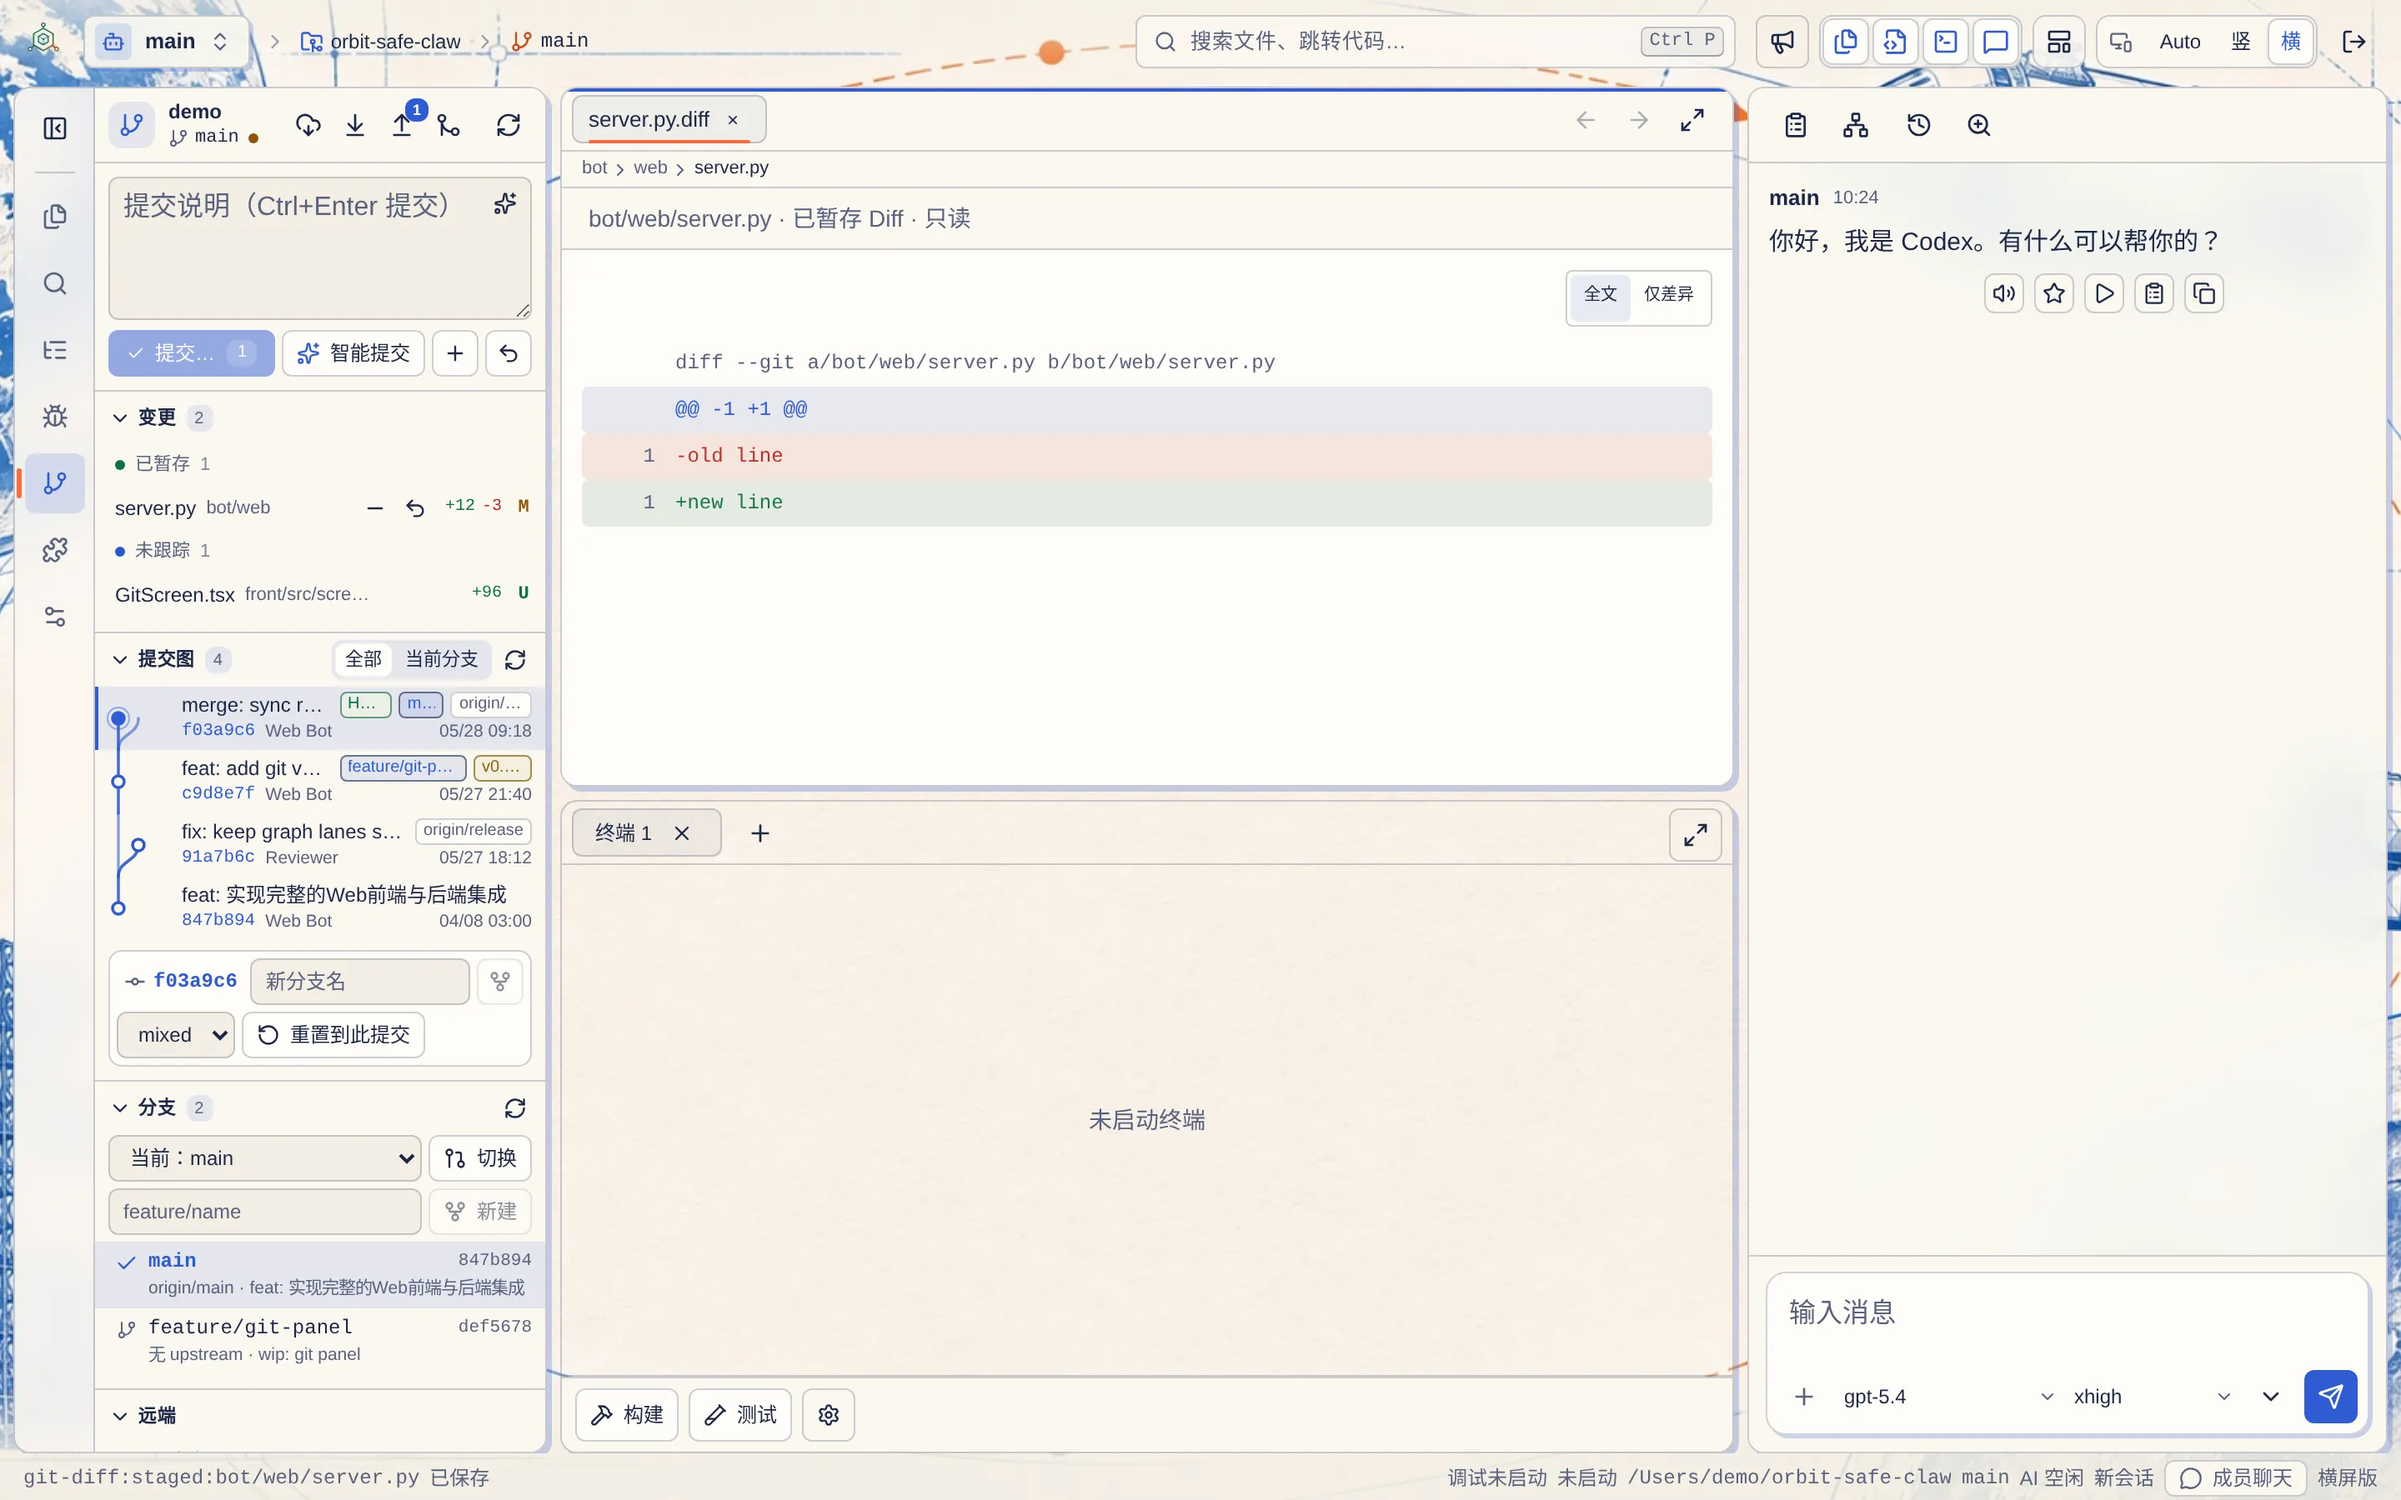
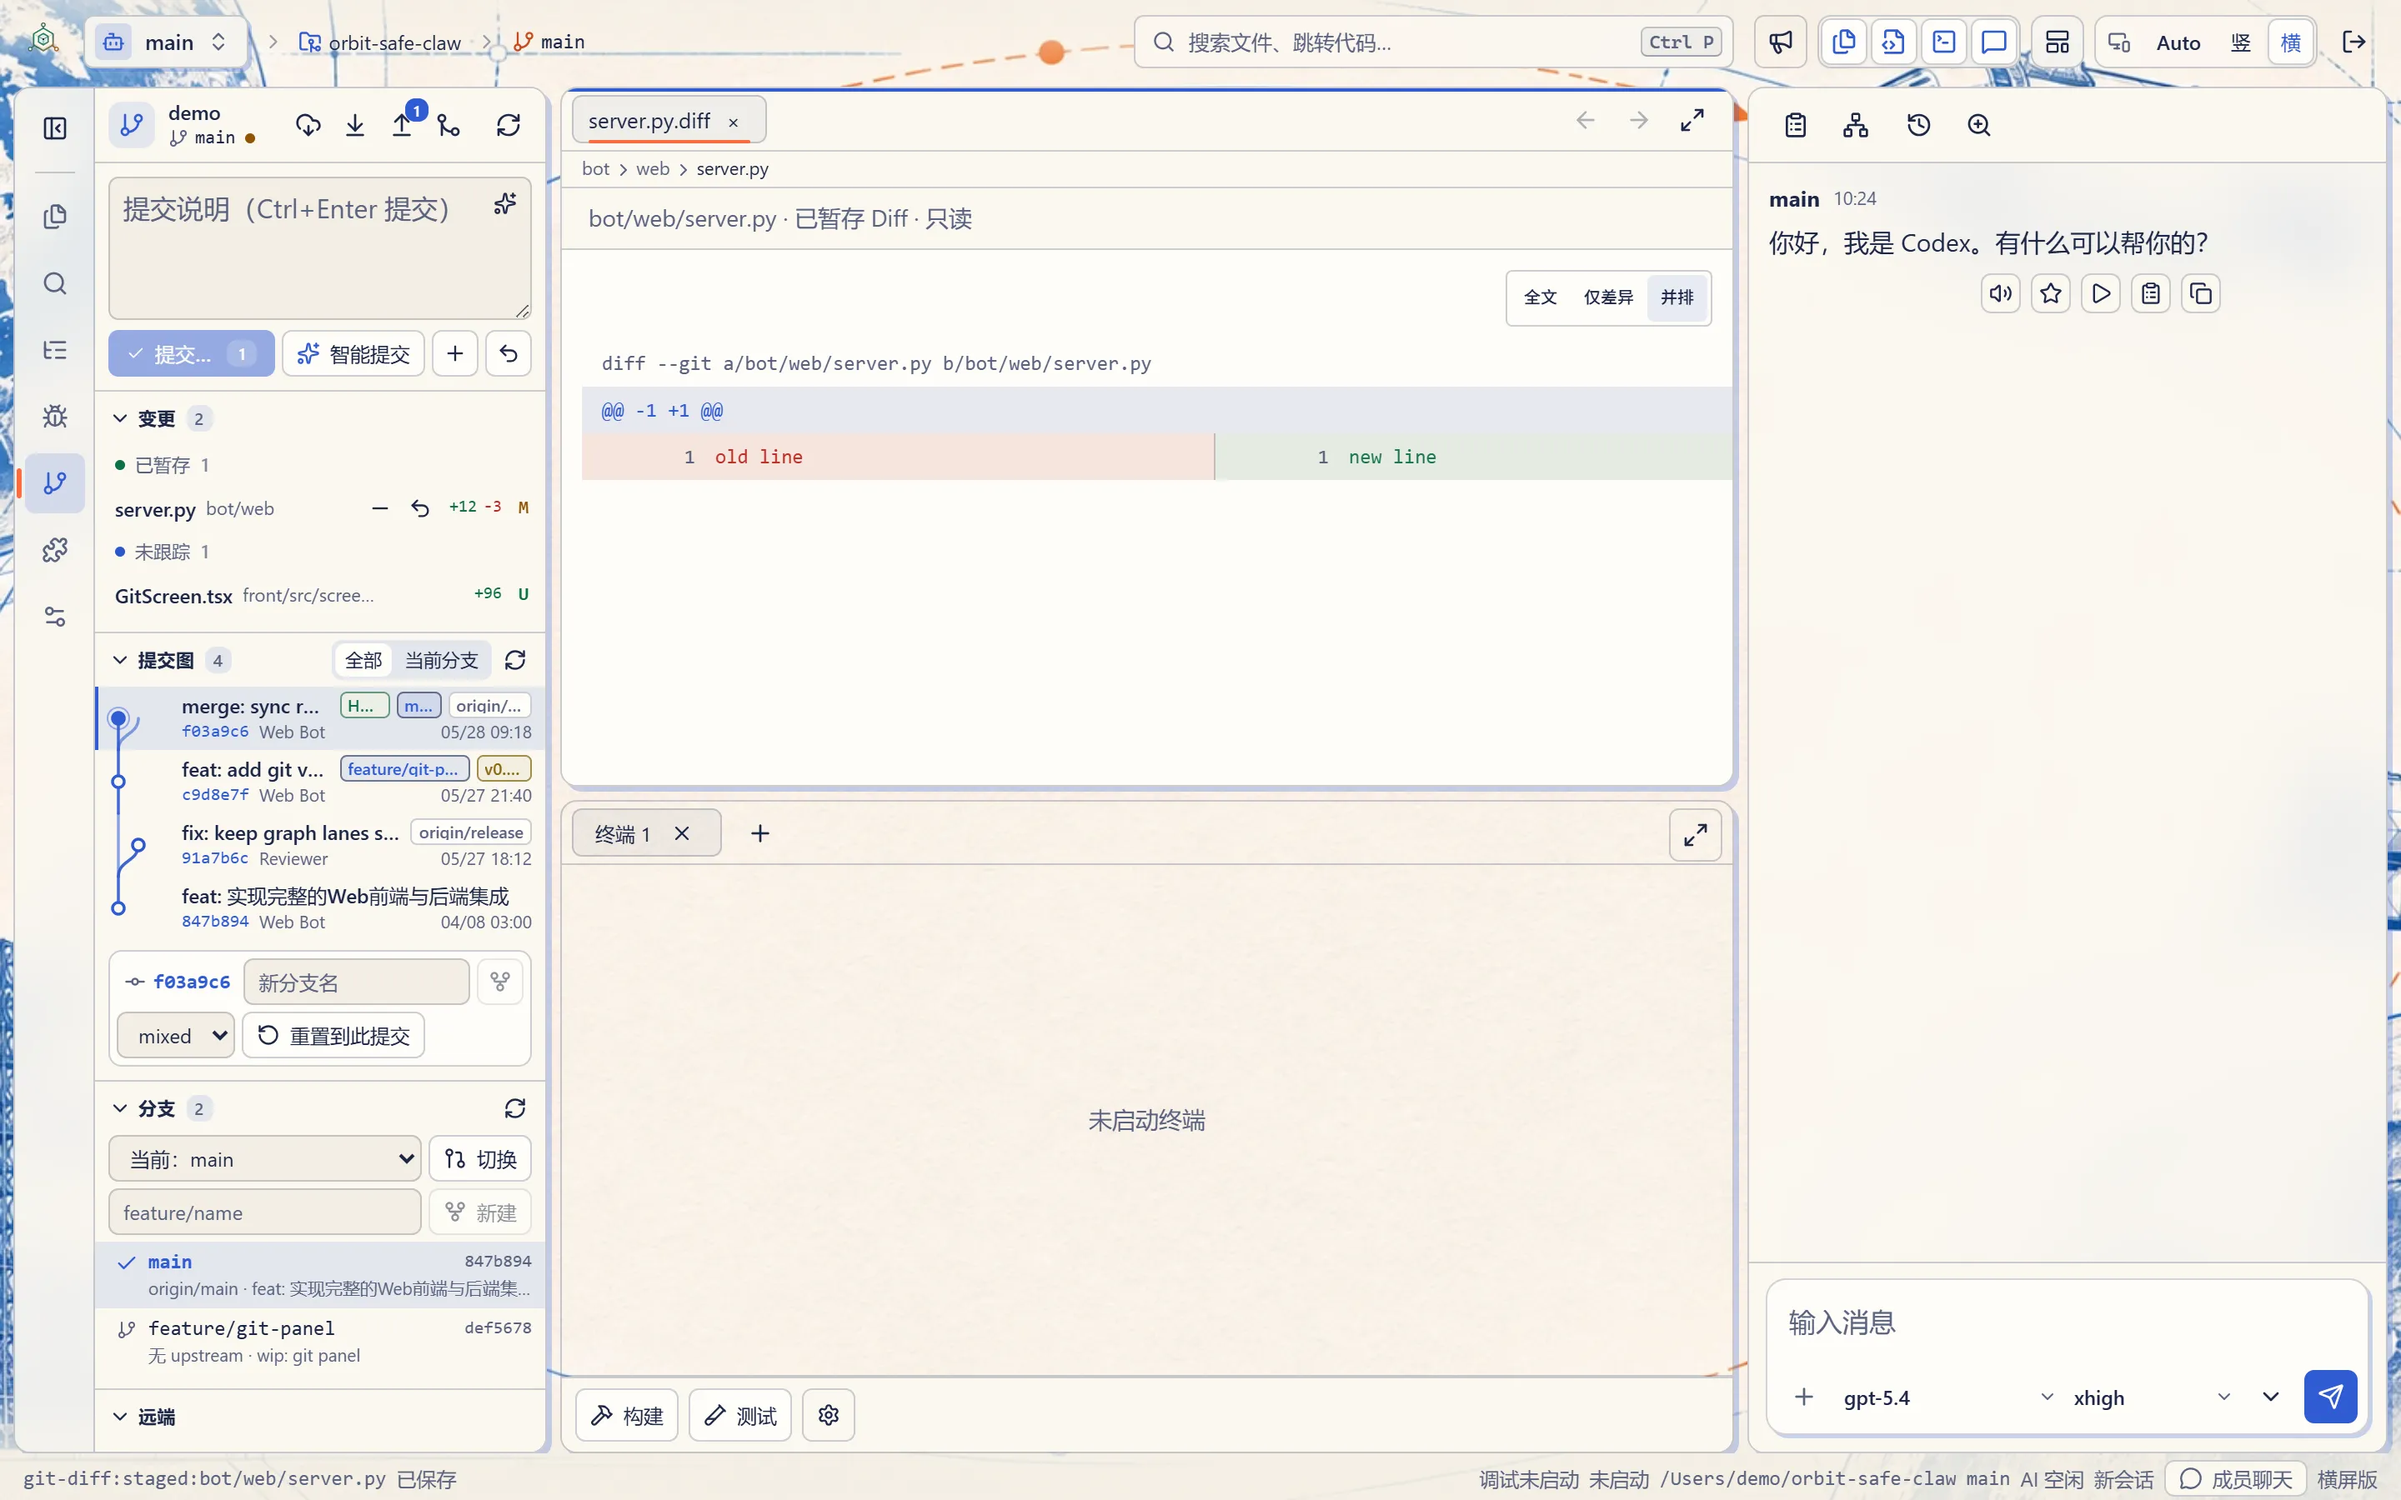
feat(front): 支持 Git diff 并排视图
- 为 GitDiffViewer 增加 split 模式、并排行解析及左右行号渲染
- EditorPane 启用并排视图并默认使用 split
- 更新教程文案与 diff 示意图
- 新增并排 diff 行对齐和渲染测试

diff --git a/front/src/components/GitDiffViewer.tsx b/front/src/components/GitDiffViewer.tsx
@@ -2,7 +2,7 @@ import { clsx } from "clsx";
 import { useState } from "react";
 
 export type GitDiffLineKind = "meta" | "hunk" | "add" | "delete" | "context";
-export type GitDiffViewMode = "full" | "diff";
+export type GitDiffViewMode = "full" | "diff" | "split";
 type VisibleGitDiffLineKind = GitDiffLineKind;
 
 type VisibleGitDiffLine = {
@@ -11,12 +11,24 @@ type VisibleGitDiffLine = {
   kind: VisibleGitDiffLineKind;
 };
 
+type SideBySideCell = {
+  line: string;
+  lineNumber: number | null;
+  kind: VisibleGitDiffLineKind | "empty";
+};
+
+type SideBySideRow =
+  | { type: "meta" | "hunk"; line: string }
+  | { type: "line"; left: SideBySideCell; right: SideBySideCell };
+
 type GitDiffViewerProps = {
   content: string;
   testId?: string;
   className?: string;
   ariaLabel?: string;
   emptyLabel?: string;
+  enableSideBySide?: boolean;
+  defaultViewMode?: GitDiffViewMode;
 };
 
 export function parseGitDiffLineKind(line: string): GitDiffLineKind {
@@ -93,6 +105,93 @@ export function visibleGitDiffLines(content: string, viewMode: GitDiffViewMode =
     : visibleLines;
 }
 
+function sideBySideCell(line: string, kind: GitDiffLineKind, lineNumber: number | null): SideBySideCell {
+  return {
+    line: kind === "add" || kind === "delete" || kind === "context" ? line.slice(1) : line,
+    lineNumber,
+    kind,
+  };
+}
+
+function emptySideBySideCell(): SideBySideCell {
+  return { line: "", lineNumber: null, kind: "empty" };
+}
+
+export function sideBySideGitDiffRows(content: string): SideBySideRow[] {
+  const rows: SideBySideRow[] = [];
+  const lines = (content || "").split(/\r?\n/);
+  let oldLineNumber: number | null = null;
+  let newLineNumber: number | null = null;
+
+  for (let index = 0; index < lines.length;) {
+    const line = lines[index];
+    const kind = parseGitDiffLineKind(line);
+
+    if (kind === "meta") {
+      if (line) rows.push({ type: "meta", line });
+      index += 1;
+      continue;
+    }
+
+    if (kind === "hunk") {
+      rows.push({ type: "hunk", line });
+      const match = /^@@ -(\d+)(?:,\d+)? \+(\d+)(?:,\d+)? @@/.exec(line);
+      oldLineNumber = match ? Number(match[1]) : null;
+      newLineNumber = match ? Number(match[2]) : null;
+      index += 1;
+      continue;
+    }
+
+    if (kind === "context" && line.startsWith(" ")) {
+      rows.push({
+        type: "line",
+        left: sideBySideCell(line, kind, oldLineNumber),
+        right: sideBySideCell(line, kind, newLineNumber),
+      });
+      if (oldLineNumber !== null) oldLineNumber += 1;
+      if (newLineNumber !== null) newLineNumber += 1;
+      index += 1;
+      continue;
+    }
+
+    if (kind === "delete" || kind === "add") {
+      const deleted: SideBySideCell[] = [];
+      const added: SideBySideCell[] = [];
+      const changeMetadata: string[] = [];
+      while (index < lines.length && parseGitDiffLineKind(lines[index]) === "delete") {
+        deleted.push(sideBySideCell(lines[index], "delete", oldLineNumber));
+        if (oldLineNumber !== null) oldLineNumber += 1;
+        index += 1;
+      }
+      while (index < lines.length
+        && parseGitDiffLineKind(lines[index]) === "meta"
+        && lines[index].startsWith("\\ No newline at end of file")) {
+        changeMetadata.push(lines[index]);
+        index += 1;
+      }
+      while (index < lines.length && parseGitDiffLineKind(lines[index]) === "add") {
+        added.push(sideBySideCell(lines[index], "add", newLineNumber));
+        if (newLineNumber !== null) newLineNumber += 1;
+        index += 1;
+      }
+      const rowCount = Math.max(deleted.length, added.length);
+      for (let rowIndex = 0; rowIndex < rowCount; rowIndex += 1) {
+        rows.push({
+          type: "line",
+          left: deleted[rowIndex] || emptySideBySideCell(),
+          right: added[rowIndex] || emptySideBySideCell(),
+        });
+      }
+      for (const metadata of changeMetadata) rows.push({ type: "meta", line: metadata });
+      continue;
+    }
+
+    index += 1;
+  }
+
+  return rows;
+}
+
 function gitDiffLineClass(kind: VisibleGitDiffLineKind) {
   if (kind === "add") return "bg-[var(--diff-added-background)] text-[var(--diff-added-text)]";
   if (kind === "delete") return "bg-[var(--diff-deleted-background)] text-[var(--diff-deleted-text)]";
@@ -101,15 +200,37 @@ function gitDiffLineClass(kind: VisibleGitDiffLineKind) {
   return "text-[var(--text)]";
 }
 
+function sideBySideCellClass(kind: SideBySideCell["kind"]) {
+  if (kind === "empty") return "text-[var(--text)]";
+  return gitDiffLineClass(kind);
+}
+
+function SideBySideCellView({ cell }: { cell: SideBySideCell }) {
+  return (
+    <div
+      data-diff-kind={cell.kind}
+      className={clsx("grid min-w-0 grid-cols-[3.5rem_minmax(0,1fr)] gap-3 px-3 py-0.5", sideBySideCellClass(cell.kind))}
+    >
+      <span className="select-none text-right text-[var(--diff-line-number)]">{cell.lineNumber ?? ""}</span>
+      <span className="min-w-0 whitespace-pre-wrap break-all">{cell.line || "\u00a0"}</span>
+    </div>
+  );
+}
+
 export function GitDiffViewer({
   content,
   testId = "git-diff-content",
   className = "h-full min-h-0 p-3 text-xs leading-6",
   ariaLabel = "Git Diff 内容",
   emptyLabel = "无可显示的内容",
+  enableSideBySide = false,
+  defaultViewMode = "full",
 }: GitDiffViewerProps) {
-  const [viewMode, setViewMode] = useState<GitDiffViewMode>("full");
+  const [viewMode, setViewMode] = useState<GitDiffViewMode>(
+    enableSideBySide ? defaultViewMode : defaultViewMode === "split" ? "full" : defaultViewMode,
+  );
   const lines = visibleGitDiffLines(content, viewMode);
+  const sideBySideRows = viewMode === "split" ? sideBySideGitDiffRows(content) : [];
 
   return (
     <div
@@ -128,6 +249,7 @@ export function GitDiffViewer({
           {([
             ["full", "全文"],
             ["diff", "仅差异"],
+            ...(enableSideBySide ? [["split", "并排"] as const] : []),
           ] as const).map(([mode, label]) => (
             <button
               key={mode}
@@ -146,7 +268,28 @@ export function GitDiffViewer({
           ))}
         </div>
       </div>
-      {lines.length > 0 ? (
+      {viewMode === "split" ? (
+        sideBySideRows.length > 0 ? (
+          <div data-testid={`${testId}-side-by-side`} className="min-w-[760px] overflow-hidden">
+            {sideBySideRows.map((row, index) => row.type === "line" ? (
+              <div key={`${index}-${row.left.lineNumber}-${row.right.lineNumber}`} className="grid grid-cols-2 divide-x divide-[var(--workbench-hairline)]">
+                <SideBySideCellView cell={row.left} />
+                <SideBySideCellView cell={row.right} />
+              </div>
+            ) : (
+              <div
+                key={`${index}-${row.type}-${row.line}`}
+                data-diff-kind={row.type}
+                className={clsx("px-3 py-0.5", gitDiffLineClass(row.type))}
+              >
+                {row.line}
+              </div>
+            ))}
+          </div>
+        ) : (
+          <div className="px-3 py-2 text-xs text-[var(--muted)]">{emptyLabel}</div>
+        )
+      ) : lines.length > 0 ? (
         lines.map((item, index) => (
           <div
             key={`${index}-${item.lineNumber}-${item.line}`}

diff --git a/front/src/test/git-diff-viewer.test.tsx b/front/src/test/git-diff-viewer.test.tsx
@@ -1,0 +1,32 @@
+import { render, screen } from "@testing-library/react";
+import { expect, test } from "vitest";
+import { GitDiffViewer, sideBySideGitDiffRows } from "../components/GitDiffViewer";
+
+const diff = [
+  "diff --git a/example.ts b/example.ts",
+  "@@ -1,3 +1,3 @@",
+  " unchanged",
+  "-old line",
+  "+new line",
+  " trailing",
+].join("\n");
+
+test("aligns changed lines in the side-by-side diff rows", () => {
+  const rows = sideBySideGitDiffRows(diff).filter((row) => row.type === "line");
+
+  expect(rows).toHaveLength(3);
+  expect(rows[1]).toMatchObject({
+    left: { line: "old line", lineNumber: 2, kind: "delete" },
+    right: { line: "new line", lineNumber: 2, kind: "add" },
+  });
+});
+
+test("renders the editor diff in side-by-side mode when enabled", () => {
+  render(<GitDiffViewer content={diff} enableSideBySide defaultViewMode="split" />);
+
+  const viewer = screen.getByTestId("git-diff-content");
+  expect(viewer).toHaveAttribute("data-diff-view-mode", "split");
+  expect(screen.getByRole("button", { name: "并排" })).toHaveAttribute("aria-pressed", "true");
+  expect(screen.getByTestId("git-diff-content-side-by-side")).toContainElement(screen.getByText("old line"));
+  expect(screen.getByTestId("git-diff-content-side-by-side")).toContainElement(screen.getByText("new line"));
+});

diff --git a/front/src/tutorial/tutorialContent.ts b/front/src/tutorial/tutorialContent.ts
@@ -562,7 +562,7 @@ export const TUTORIAL_CHAPTERS: TutorialChapter[] = [
       {
         id: "diff",
         title: "查看 diff",
-        body: ["diff 在编辑器区域以只读方式打开，可以在「全文」和「仅差异」之间切换。"],
+        body: ["diff 在编辑器区域以只读方式打开，可以在「并排」「全文」和「仅差异」之间切换。"],
         shot: "diff",
         hotspot: "diff",
         zoom: 1.3,

diff --git a/front/src/workbench/EditorPane.tsx b/front/src/workbench/EditorPane.tsx
@@ -847,6 +847,8 @@ export function EditorPane({
             content={activeTab.content}
             testId="desktop-git-diff-viewer"
             className="h-full min-h-0 p-3 text-xs leading-6"
+            enableSideBySide
+            defaultViewMode="split"
           />
         ) : activeTab.kind === "plugin-view" ? (
           <div data-testid="desktop-plugin-view" className="h-full min-h-0">
